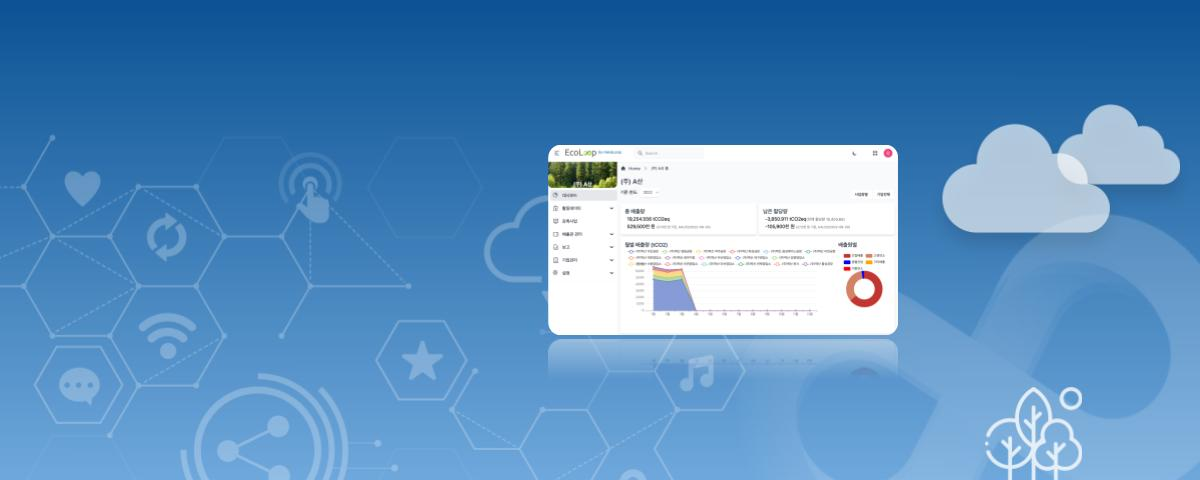
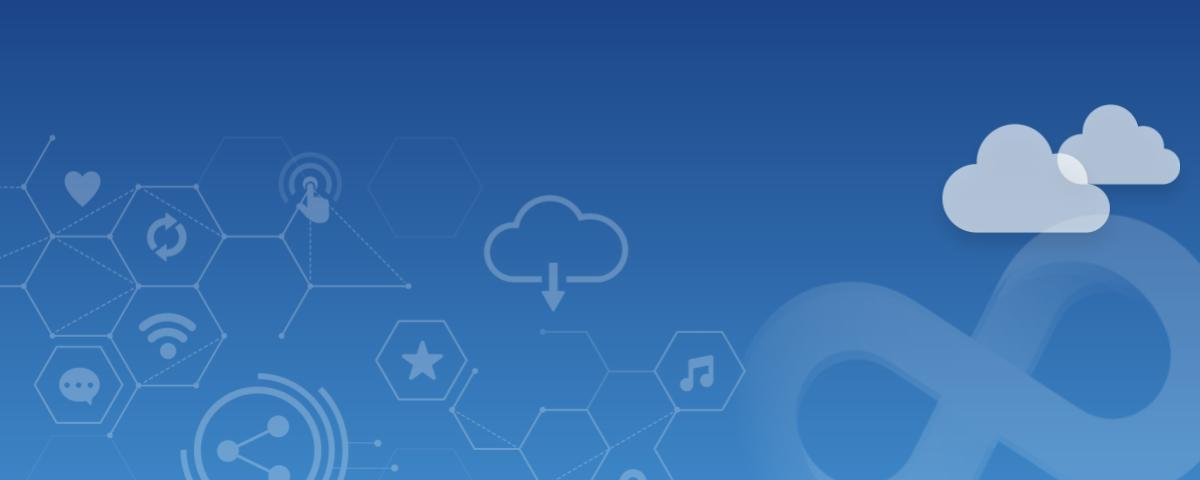
Add demo and apply forms. Cosmetic improvements.

diff --git a/pages/index.tsx b/pages/index.tsx
@@ -85,14 +85,14 @@ const Home: NextPage = () => {
         header="지속가능성을 위한 디지털 전환"
         tagline="SaaS형 온실가스와 오염물 관리 솔루션"
         button={
-          {href: '/docs', label: '에코루프 데모 요청'}
+          {href: '/demo_request', label: '에코루프 데모 요청'}
         }
       />
 
       {/* Features */}
-      <SectionBlock containerStyle="px-20 py-10">
+      <SectionBlock containerStyle="px-20">
         <>
-        <h2 className="my-2 text-4xl font-extrabold text-center text-gray-300">SaaS형 지속가능성 플랫폼 에코루프</h2>
+        <h2 className="pb-10 text-4xl font-extrabold text-center text-gray-300">SaaS형 지속가능성 플랫폼 에코루프</h2>
         <div className="p-6 border-2 border-secondary rounded-lg grid lg:grid-cols-4 grid-cols-1 gap-4  ">
           {
             features.map(item => 
@@ -109,7 +109,7 @@ const Home: NextPage = () => {
       </SectionBlock>
 
       {/* Climate strategy is essential */}
-      <SectionBlock title='오늘날 기업에게 기후 전략은 필수입니다.' containerStyle='bg-gray-100'>
+      <SectionBlock title='오늘날 기업에게 기후 전략은 필수입니다' containerStyle='bg-gray-100'>
         <div className="px-20  my-5 grid lg:grid-cols-3 grid-cols-1 gap-4  ">
           {
             reasons.map(item => 

diff --git a/next-portal.config.js b/next-portal.config.js
@@ -37,14 +37,17 @@ const config = {
           },
           {
             to: '/company',
-            docId: '',
             label: '회사소개',
             position: 'left',
           },
           {
             type: 'docs',
-            docId: '',
             label: '자료',
+            position: 'left',
+          },
+          {
+            to: '/recruit',
+            label: '채용',
             position: 'left',
           },
           // {

diff --git a/components/Hero.tsx b/components/Hero.tsx
@@ -32,11 +32,11 @@ export default function Hero({header, tagline, button, background}: HeroProps & 
       {/* <div className="p-4 h-64 bg-gradient-to-r from-sky-500 to-lime-500 justify-center items-center text-gray-50 "> */}
         
         <div className="px-8 w-full flex mx-auto" >
-          <div id="hero-label" className="pt-16 space-y-2 flex flex-col w-full justify-center items-start text-center md:w-4/5 md:text-left">
+          <div id="hero-label" className="pt-16 space-y-2  w-full justify-center items-start text-center md:w-4/5 md:text-left">
             <h1 className="text-3xl md:text-4xl font-bold drop-shadow">{header}</h1>
-            <span className="text-xl md:text-2xl drop-shadow">{tagline}</span>
+            <span className="text-xl md:text-2xl drop-shadow ">{tagline}</span>
             {
-              button && <Link href={button.href} passHref><button className="p-2 rounded-md border-2 text-gray-200 font-bold">{button.label}</button></Link>
+              button && <div className="pt-5 flex justify-center md:justify-start"><Link href={button.href} passHref><button className="p-2 rounded-md border-2 text-gray-200 font-bold">{button.label}</button></Link></div>
             }
             {/* </div> */}
           </div>

diff --git a/content/pages/credits.md b/content/pages/credits.md
@@ -1,0 +1,28 @@
+---
+title: "Credits"
+description: "Credits"
+keywords: "image, icons, credits"
+
+publishedAt: "2022-10-06"
+---
+import SectionBlock from "../components/theme/SectionBlock";
+
+<div className="p-4 [word-break:keep-all]">
+The photos and icons used in this site come from the sources listed below:
+
+## Photos
+- [Unsplash](https://unsplash.com/)
+- [Pexels](https://www.pexels.com/)
+- [Pixabay](https://www.pixabay.com/)
+
+## Icons
+- [Heroicons](https://heroicons.com/)
+- [Bootstrap Icons](https://icons.getbootstrap.com/)
+- [Ionic Icons](https://ionic.io/ionicons)
+- [css.gg](https://css.gg/app)
+- [theforgesmith.com](https://icons.theforgesmith.com/)
+
+</div>
+
+
+개인정보보호법 및 기업정보 수집/이용/제공 및 활용 동의에 따라 (주)하나루프 정보 신청하시는 분께 수집하는 개인(기업)정보의 항목, 개인(기업)정보의 수집 및 이용목적, 개인(기업)정보의 보유 및 이용기간, 동의 거부권 및 동의 거부 시 불이익에 관한 사항을 안내 드리오니 자세히 읽은 후 동의하여 주시기 바랍니다. (주)하나루프는 서비스 이용 및 회원정보 관리를 위해 필요한 최소한의 개인(기업)정보를 수집합니다. 회원가입 시점에 (주)하나루프가 이용자로부터 수집하는 개인(기업)정보는 안전하게 저장 및 처리됨을 알려드립니다.

diff --git a/content/pages/platform.md b/content/pages/platform.md
@@ -15,14 +15,18 @@ import SectionBlock from "../components/theme/SectionBlock";
 import data from "../content/pages/platform.data";
 
 
-<SectionBlock title='데이터가 보이면 전략이 보입니다.' containerStyle='bg-gray-100'>
+<SectionBlock title='데이터가 보이면 전략이 보입니다' containerStyle='bg-gray-100'>
 <div className="text-left">
   인류가 대면하고 있는 가장 큰 위기, 기후변화, 그의 주범인 온실가스, 
   하지만 눈에 보이지 않는 온실가스를, 저희 하나루프의 **SaaS형 지속가능성 플랫폼 에코루프**가 보여드리겠습니다.
 
-  <span className="text-2xl text-primary-600 italic">“측정할 수 없으면 관리할 수 없고, 
-  관리할 수 없으면 개선시킬 수도 없다”</span>
-  <span className="text-sm text-gray-600 whitespace-nowrap">- 피터 드러커 (Peter Drucker)</span>
+  <div className="flex justify-center">
+    <div className="w-4/5 ">
+      <div className="text-center text-2xl italic text-primary-600 ">“측정할 수 없으면 관리할 수 없고, 
+      관리할 수 없으면 개선시킬 수도 없다”</div>
+      <div className="text-right text-sm text-gray-600  whitespace-nowrap">- 피터 드러커 (Peter Drucker)</div>
+    </div>
+  </div>
 
   **SaaS형 지속가능성 플랫폼 에코루프**는 온실가스 배출활동을 관리하며, 배출량을 계산하고 분석합니다. 에코루프를 통해 기관, 기업은 기후관련 규제에 대응하고, 기후 리스크를 줄이며, 에너지 소비를 줄이고, ESG 포트폴리오를 향상시킬 수 있습니다. 궁극적으로 기관, 기업은 탄소발자국을 줄이며, 기후위기 완화에 기여할 수 있습니다.
   
@@ -33,7 +37,7 @@ import data from "../content/pages/platform.data";
 </SectionBlock>
 
 <SectionBlock title='에코루프 기능' >
-<div className="text-left space-y-2">
+<div className="text-left space-y-6">
   {data.features.map(feature => 
   <div className="border-l border-l-4 pl-2 border-primary" key={feature.title}>
     <h3 className="el-heading inline">{feature.title}</h3>
@@ -48,7 +52,7 @@ import data from "../content/pages/platform.data";
 
 <SectionBlock title='기대 효과' containerStyle='bg-gray-100'>
 <div className="text-left flex justify-center">
-  <div className="space-y-2 ">
+  <div className="space-y-4 ">
   {data.benefits.map(benefit => 
   <div className="block relative w-[38rem] "> 
     <div className="p-2 min-w-0 rounded-l-full rounded-r-lg bg-primary-600 flex  z-50 items-center">

diff --git a/content/pages/demo_request.md b/content/pages/demo_request.md
@@ -1,0 +1,13 @@
+---
+title: "데모 요청"
+description: "데모 요청"
+keywords: "데모"
+
+publishedAt: "2022-10-06"
+---
+
+import IFrame from "../components/IFrame";
+
+
+
+<iframe src="https://docs.google.com/forms/d/e/1FAIpQLSfk1GQQrcYy_qQiOog_osm1RX9BgnTjJqgIuDPAGNKM6403zQ/viewform?embedded=true" width="657" height="1400" frameborder="0" marginheight="0" marginwidth="0">Loading…</iframe>

diff --git a/content/pages/recruit_apply.md b/content/pages/recruit_apply.md
@@ -1,0 +1,11 @@
+---
+title: "지원"
+description: "지원"
+keywords: "지원"
+
+publishedAt: "2022-10-06"
+---
+import IFrame from "../components/IFrame";
+
+
+<iframe src="https://docs.google.com/forms/d/e/1FAIpQLSeEllylcmQpfmiUdIelzCCf-V2ChKPQctk470Ls_ocwqMR2iw/viewform?embedded=true" width="640" height="4142" frameborder="0" marginheight="0" marginwidth="0">Loading…</iframe>

diff --git a/content/pages/privacy.md b/content/pages/privacy.md
@@ -40,7 +40,6 @@
 각각의 개인정보 처리 및 보유 기간은 다음과 같습니다.
 
 
-
 1. 홈페이지 회원 가입 및 관리 : 사업자/단체 홈페이지 탈퇴 시까지. 다만, 다음의 사유에 해당하는 경우에는 해당 사유 종료 시까지
     1. 관계 법령 위반에 따른 수사조사 등이 진행 중인 경우에는 해당 수사조사 종료 시까지
     2. 홈페이지 이용에 따른 채권·채무관계 잔존 시에는 해당 채권·채무관계 정산 시까지
@@ -67,7 +66,6 @@
 ### 제4조 (개인정보처리의 위탁)
 
 하나루프는 원활한 개인정보 업무처리를 위하여 다음과 같이 개인정보 처리업무를 위탁하고 있습니다.
-
 
 
 * 가. 위탁처리기관
@@ -208,22 +206,14 @@ a. Auth0.com 사용
 
 
     ▶ 개인정보 열람청구 접수·처리 부서
-
-
     부서명 : 개발지원부
-
-
     담당자 : 김혜연
-
-
     연락처 : [[email redacted]](mailto:[email redacted])
-
 
 ### 
     제15조 (권익침해에 대한 구제방법)
 
 정보주체는 개인정보침해로 인한 구제를 받기 위하여 개인정보분쟁조정위원회, 한국인터넷진흥원 개인정보침해신고센터 등에 분쟁해결이나 상담 등을 신청할 수 있습니다. 이 밖에 기타 개인정보침해의 신고, 상담에 대하여는 아래의 기관에 문의하시기 바랍니다.
-
 
 
 * 개인정보 침해신고센터 (한국인터넷진흥원 운영)

diff --git a/content/pages/recruit.md b/content/pages/recruit.md
@@ -6,10 +6,10 @@ keywords: "about"
 publishedAt: "2022-10-06"
 
 headerBackground:
-  imageUrl: "/images/bg-hero_pando.jpeg"
+  imageUrl: "/images/bg-hero_windturbine.jpeg"
 hero:
   header: "채용"
-  tagline: "지속가능한 생태계 형성을 힘께!"
+  tagline: "지속가능한 생태계 형성을 함께!"
 ---
 import SectionBlock from "../components/theme/SectionBlock";
 
@@ -37,7 +37,7 @@ import SectionBlock from "../components/theme/SectionBlock";
 </SectionBlock>
 
 <div className="my-2 ">
-  <div className="p-2 border text-xl text-center border-secondary rounded-md bg-amber-50 bg-opacity-50">
+  <div className="p-2 border text-xl text-center border-primary rounded-md bg-amber-50 bg-opacity-50">
   지구환경을 위해, 미래를 위해 세계의 일류 인재들과 함께하세요! 
   </div>
 </div>
@@ -91,6 +91,8 @@ import SectionBlock from "../components/theme/SectionBlock";
   - 각종 세미나, 포럼, 교육 참석 지원
   - 업무 관련 도서구매 지원
   - 3년 이상 함께하는 멤버의 공헌도에 따라 스톡옵션 지급
+
+  <div className="p-2 border border-primary rounded inline text-lg">[지원하기](recruit_apply)</div>
 </div>
 </SectionBlock>
 

diff --git a/content/pages/solution.md b/content/pages/solution.md
@@ -15,8 +15,8 @@ hero:
 import SectionBlock from "../components/theme/SectionBlock";
 import data from "../content/pages/solution.data";
 
-<SectionBlock title='데이터가 보이면 전략이 보입니다.' containerStyle='bg-gray-100'>
-  <div className="my-5 grid xl:grid-cols-4 grid-cols-2 gap-2">
+<SectionBlock title='데이터가 보이면 전략이 보입니다!' containerStyle='bg-gray-100'>
+  <div className="my-5 grid grid-cols-1  md:grid-cols-2 xl:grid-cols-4 gap-2">
     {data.benefits.map(benefit => 
     <div className="text-center "> 
       { /* <div className="text-lg text-white rounded-b-lg bg-secondary">{benefit.title}</div>*/ }
@@ -28,3 +28,7 @@ import data from "../content/pages/solution.data";
     )}
   </div>
 </SectionBlock>
+
+<div className="flex justify-center" >
+<img src="/images/banner-carbon_disclosure.jpeg" />
+</div>

diff --git a/content/pages/company.md b/content/pages/company.md
@@ -100,7 +100,7 @@ export const memberList = Object.values(members);
   </SectionBlock>
 
   <SectionBlock title='하나루프 이름의 배경' >
-    <div className="p-4">
+    <div className="px-4">
       <span className="text-xl">
       하나루프(Hana+Loop)
       </span>